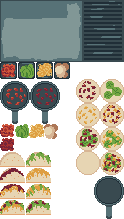
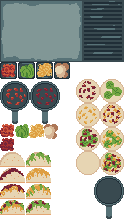
added start and win/fail screen

Changed region(s): [[0.0242, 0.0, 0.5565, 0.1096]]

diff --git a/game.js b/game.js
@@ -5,6 +5,7 @@ kaboom({
 });
 // loadSound("song", "./assets/song.mp3");
 // play("song", {loop: true})
+
 loadFont("font", "./assets/font.otf");
 
 loadSpriteAtlas("assets/tacos.png", {
@@ -205,6 +206,8 @@ loadSpriteAtlas("assets/UI.png", {
   },
 });
 
+let won = false;
+
 scene("game", () => {
   const tacos = [
     "taco_empty",
@@ -284,16 +287,14 @@ scene("game", () => {
   let taco = [];
   let result = "";
   let time = 0;
-  let won = false;
   let failed = false;
   add([rect(60, 30, { radius: 20 }), pos(352 + 165, 16), color(87, 114, 119)]);
   let timeText = add([text("", { font: "font" }), pos(360 + 170, 10)]);
 
   setTimeout(() => {
     if (!won) {
-      failed = true;
-      alert("You failed :(");
-      go("game");
+      won = false;
+      go("end");
     }
   }, 7200);
 
@@ -304,15 +305,12 @@ scene("game", () => {
   }, 100);
 
   onClick("done_btn", (d) => {
-    if (d.done) {
-      if (result === randomTaco && !failed) {
-        alert("You did it :D");
-        won = true;
-        go("game");
-      } else {
-        alert("You failed :(");
-        go("game");
-      }
+    if (result === randomTaco && !failed) {
+      won = true;
+      go("end");
+    } else {
+      won = false;
+      go("game");
     }
   });
 
@@ -596,11 +594,41 @@ scene("game", () => {
   }
 });
 
-go("game");
-
 scene("end", () => {
-  add([text("Failed")]);
-  wait(3, () => {
+  setBackground([0, 0, 0]);
+  add([
+    text(won ? "You win :D" : "You failed", { font: "font", size: 78 }),
+    pos(160, 80),
+  ]);
+  const btn = add([rect(200, 100), outline(7), pos(200, 180), "btn", area()]);
+  btn.add([
+    text("Restart", { font: "font", size: 64 }),
+    color([0, 0, 0]),
+    pos(15, 12),
+  ]);
+
+  onClick("btn", () => {
     go("game");
   });
 });
+scene("start", () => {
+  loadSprite("logo", "./assets/logo.png");
+  setBackground([255, 0, 0]);
+  // add([text(won ? "You win :D" : "You failed", { font: "font", size: 78 }), pos(160, 80)]);
+  add([sprite("logo"), scale(3), pos(110, 60)]);
+  const btn = add([rect(200, 100), outline(7),opacity(0.5), pos(200, 230), "btn", area()]);
+  btn.add([
+    text("Play", { font: "font", size: 64 }),
+    color([0, 0, 0]),
+    pos(48, 12),
+  ]);
+
+  onUpdate((c) => {
+    btn.pos.y = wave(220, 240, time())
+})
+
+  onClick("btn", () => {
+    go("game");
+  });
+});
+go("start");
